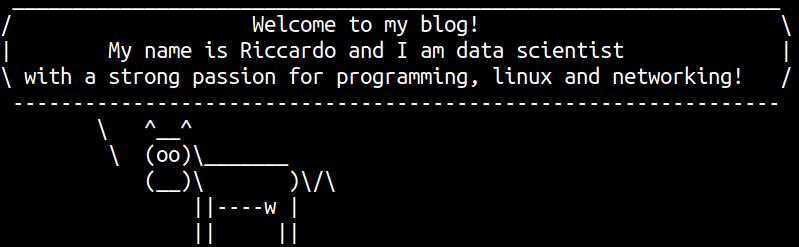
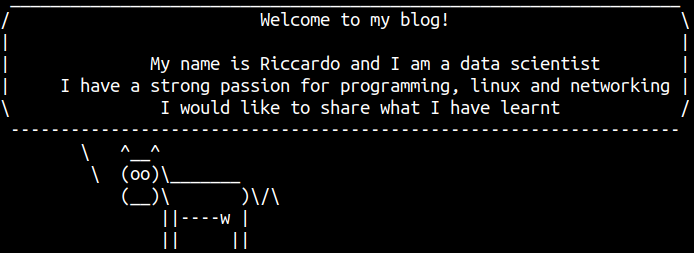
Modified front page

Changed region(s): [[0.0, 0.0, 0.9986, 0.4534], [0.0303, 0.4818, 0.9683, 0.9919]]

diff --git a/_sass/main.scss b/_sass/main.scss
@@ -109,7 +109,7 @@ input, select {
 }
 
 body {
-  background-color: #f3f3f3;
+  background-color: #000000;
 }
 
 header {
@@ -148,21 +148,25 @@ header .header-brand {
 
 /* INDEX */
 
- .wrapper {
+.wrapper {
 
     margin: 0 auto;
-    width: 700px;
-    height: 338px;
-    background-image: url("../images/welcome_fig.png");
-    background-size:  contain;
-    background-repeat: no-repeat;
-    // background-repeat: no-repeat;
-
-
-
+    width: 100%;
 
     }
 
+
+.img-welcome {
+
+    margin: 0 auto;
+    height: 240px;
+    width: 655px;
+    background-image: url("../images/welcome_fig.png");
+    background-size: cover;
+    background-repeat: no-repeat;
+       // background-repeat: no-repeat;
+
+}
 
   // nav {
   //     position: relative;

diff --git a/_layouts/default.html b/_layouts/default.html
@@ -18,7 +18,8 @@
 
 
       <div class="wrapper">
-      
+
+        <div class="img-welcome"></div>
 
       </div>
 
